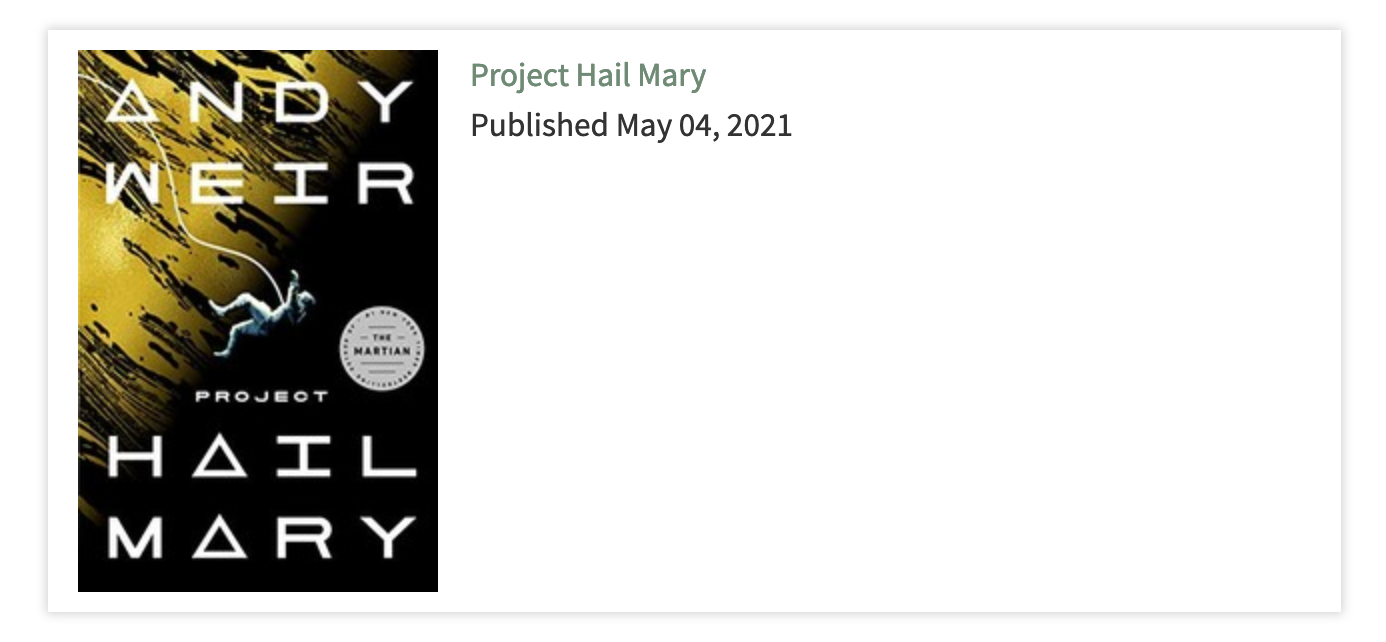
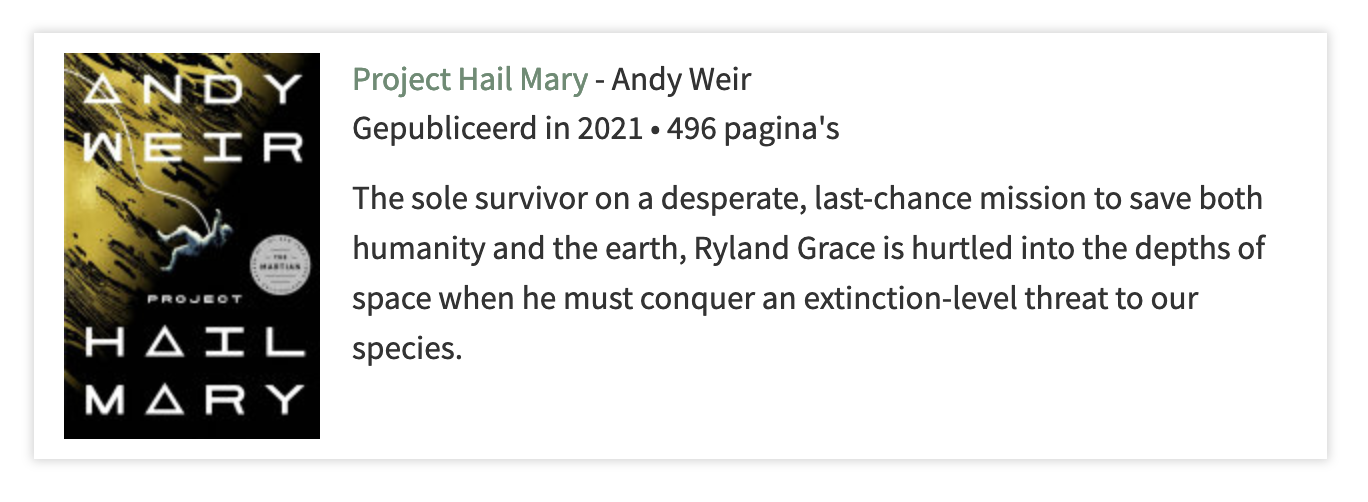
Replace Open Library voor Google Books API, because of description

Changed region(s): [[0.0307, 0.0598, 0.9211, 0.9263]]

diff --git a/index.php b/index.php
@@ -11,44 +11,32 @@
 
                 $isbn = $tag->isbn;
                 
-                $url = "https://openlibrary.org/isbn/".$isbn.".json";
+                // not sure if Google API is (and remains) free. But Open Library doesn't offer description..
+                // $url = "https://openlibrary.org/api/books?bibkeys=ISBN:9780980200447&jscmd=details&format=json";
+                // $url = "https://openlibrary.org/isbn/".$isbn.".json";
+                
+                $url = "https://www.googleapis.com/books/v1/volumes?q=isbn:".$isbn;
                 $ch = curl_init($url);
                 curl_setopt($ch, CURLOPT_FOLLOWLOCATION, true);
                 curl_setopt($ch, CURLOPT_RETURNTRANSFER, 1);
                 $rawdata = curl_exec($ch);
                 curl_close($ch);
-                $bookinfo = json_decode($rawdata,true);
-                // print_r($bookinfo); exit(); 
-
-                // TODO loop by authors[]
-                $authorkey = $bookinfo['authors'][0]['key'];
-                $url = "https://openlibrary.org".$authorkey.".json";
-                $ch = curl_init($url);
-                curl_setopt($ch, CURLOPT_RETURNTRANSFER, 1);
-                $rawdata_credits = curl_exec($ch);
-                curl_close($ch);
-                $author = json_decode($rawdata_credits,true);
-                // print_r($author); exit();
+                $completebookinfo = json_decode($rawdata,true);
+                // print_r($completebookinfo); exit();
+                $bookinfo = $completebookinfo['items'][0]['volumeInfo'];
                 
                 $mijnoutput = '<div class="well" style="overflow: auto;">';
-                $mijnoutput .= '<img src="http://covers.openlibrary.org/b/isbn/'.$bookinfo['isbn_10'][0].'-M.jpg" alt="" class="floatleft" style="margin-right: 1rem;">';
-                $mijnoutput .= '<p><a href="https://openlibrary.org/'.$bookinfo['key'].'">'.$bookinfo['title']."</a> - ".$author['name']."<br>";
-                $mijnoutput .= 'Verschenen '. $bookinfo['publish_date'] ." &bull; ";
-                $mijnoutput .= $bookinfo['number_of_pages']." pagina's</p>";
-                // $mijnoutput .= '<p><em>'.$bookinfo['tagline']."</em></p>";
-                // $mijnoutput .= '<p>'.$bookinfo['overview']."</p>";
+                $mijnoutput .= '<img src="'.$bookinfo['imageLinks']['thumbnail'].'" alt="" class="floatleft" style="margin-right: 1rem;">';
+                $mijnoutput .= '<p><a href="'.$bookinfo['canonicalVolumeLink'].'">'.$bookinfo['title']."</a> - ".$bookinfo['authors'][0]."<br>";
+                $mijnoutput .= 'Gepubliceerd in '. $bookinfo['publishedDate'] ." &bull; ";
+                $mijnoutput .= $bookinfo['pageCount']." pagina's</p>";
+                $mijnoutput .= '<p>'.$bookinfo['description']."</p>";
 
                 // $i = 0;
-                // $mijnoutput .= "<ul class=\"cast\">";
-                // foreach ($credits['cast'] as $genre) {
-                //     $mijnoutput .= '<li>'. $genre['name'] . "</li>";
-                //     if (++$i == 5) break;
-                // }
-                // $mijnoutput .= "</ul>";
-
                 // $mijnoutput .= "<ul class=\"genres\">";
-                // foreach ($bookinfo['genres'] as $genre) {
-                //     $mijnoutput .= '<li>'. $genre['name'] . "</li>";
+                // foreach ($bookinfo['categories'] as $genre) {
+                //     $mijnoutput .= '<li>'. $genre . "</li>";
+                //     if (++$i == 5) break;
                 // }
                 // $mijnoutput .= "</ul>";
 

diff --git a/README.md b/README.md
@@ -1,6 +1,6 @@
 # Kirby Plugin: bookblock
 
-This plugin allows you to show information for a book from the Open Library API. 
+This plugin allows you to show information for a book from the Google Books API. 
 Though that might change to a different service at some later point
 
 ## Git submodule
@@ -11,7 +11,7 @@ git submodule add https://github.com/mirthe/kirby_bookblock site/plugins/bookblo
 
 ## Usage
 
-Open Library doesn't require a key, so you're good to go.
+Google Books doesn't appear to require a key, so you're good to go.
 
 ## Example 
 
